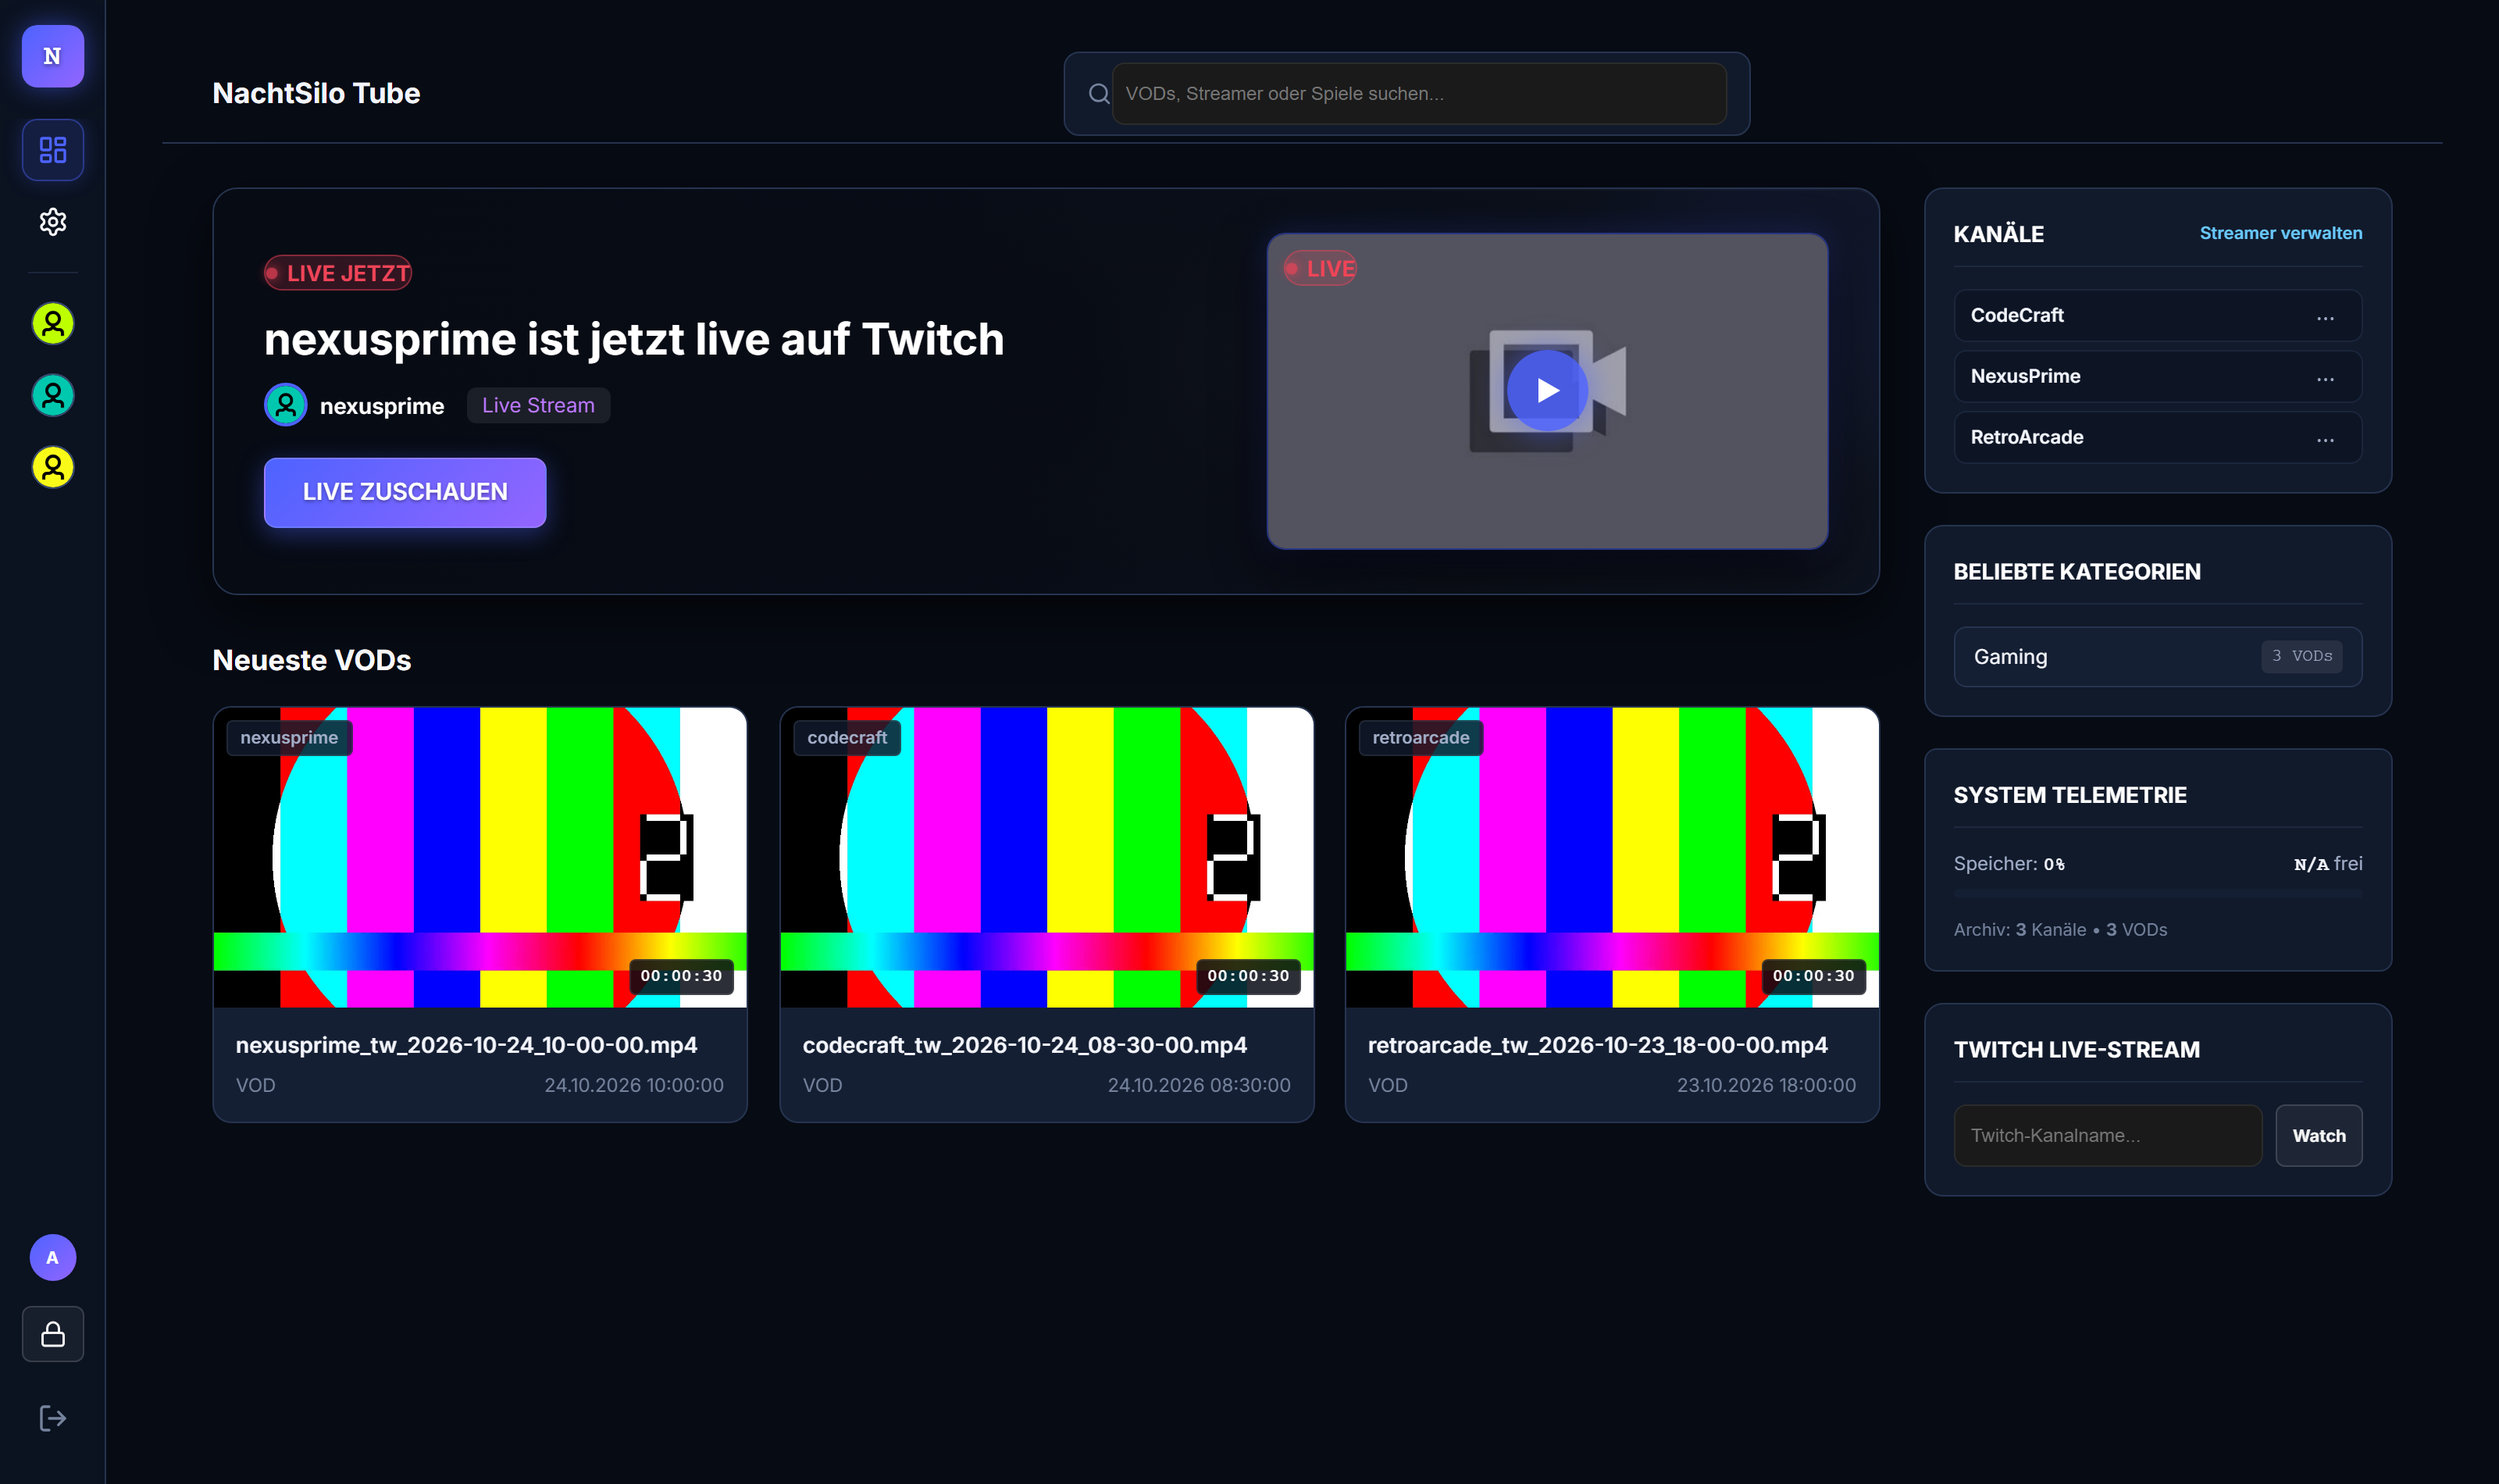
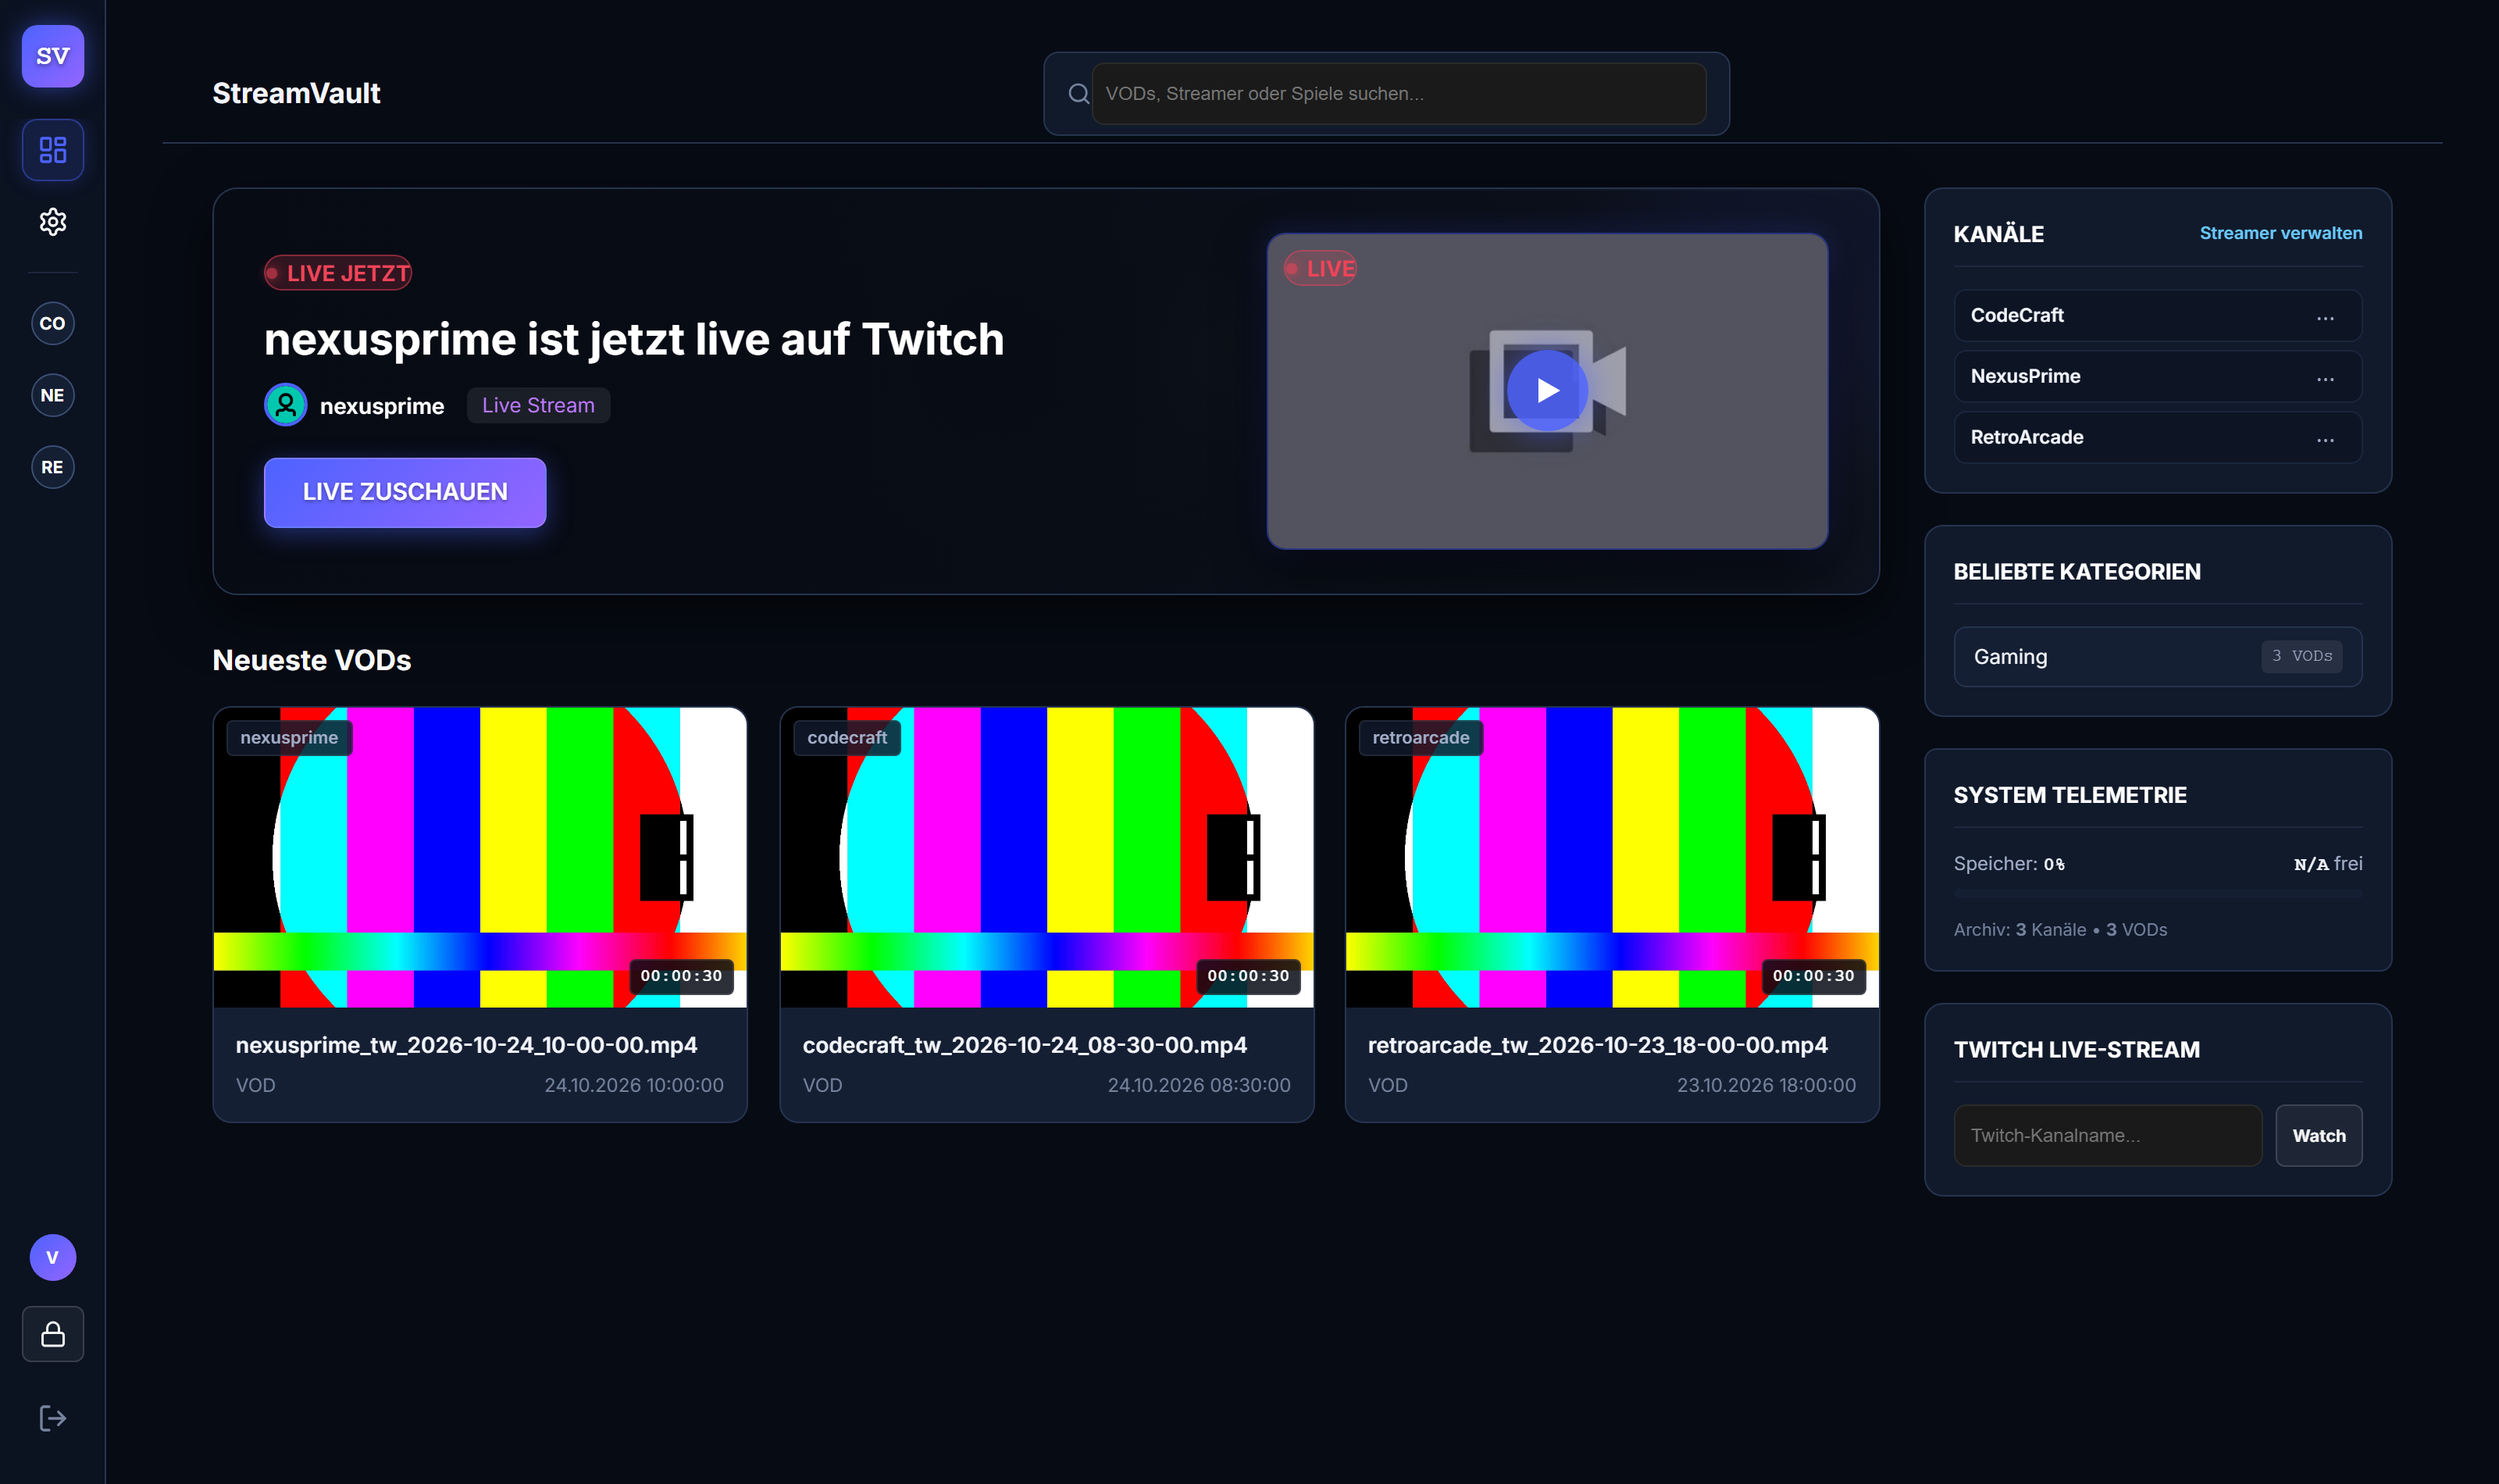
fix(ui): purge all remaining legacy UI branding and regenerate showcase screenshots
- Update sidebar brand glyph from 'N' to 'SV' (StreamVault)
- Replace 'Silo Cache' with 'Vault Cache' in VOD player
- Rename default theme and styles from silo to vault
- Regenerate all 6 high-resolution showcase screenshots in docs/screenshots/ with updated StreamVault UI

diff --git a/WEBUI/templates/vod.html b/WEBUI/templates/vod.html
@@ -107,7 +107,7 @@
               {% if drive_only %}
               <span class="vod-storage-badge badge-drive">Google Drive</span>
               {% else %}
-              <span class="vod-storage-badge badge-cache">Silo Cache</span>
+              <span class="vod-storage-badge badge-cache">Vault Cache</span>
               {% endif %}
               <a class="vod-channel-link" href="{{ url_for('streamer_view', streamer=streamer) }}">{{ streamer }}</a>
               {% if vod_category %}
@@ -139,7 +139,7 @@
           {% endif %}
           {% else %}
           <div class="vod-details-main">
-            <div class="vod-kicker">{% if not is_tv and not is_mobile %}<span class="kicker-type">{{ 'Clip' if route_type == 'clip' else 'Aufnahme' }}</span>{% endif %}{% if vod_platform %} · <span class="platform-badge {% if 'youtube' in (vod_platform|lower) %}platform-youtube{% else %}platform-twitch{% endif %}">{% if 'youtube' in (vod_platform|lower) %}YT{% else %}TW{% endif %}</span>{% endif %} · {% if drive_only %}<span class="vod-storage-badge badge-drive">Google Drive</span>{% else %}<span class="vod-storage-badge badge-cache">Silo Cache</span>{% endif %}</div>
+            <div class="vod-kicker">{% if not is_tv and not is_mobile %}<span class="kicker-type">{{ 'Clip' if route_type == 'clip' else 'Aufnahme' }}</span>{% endif %}{% if vod_platform %} · <span class="platform-badge {% if 'youtube' in (vod_platform|lower) %}platform-youtube{% else %}platform-twitch{% endif %}">{% if 'youtube' in (vod_platform|lower) %}YT{% else %}TW{% endif %}</span>{% endif %} · {% if drive_only %}<span class="vod-storage-badge badge-drive">Google Drive</span>{% else %}<span class="vod-storage-badge badge-cache">Vault Cache</span>{% endif %}</div>
             <h1 id="vod-title" class="vod-display-title">{{ vod_display_title or filename }}</h1>
             <a class="vod-channel-link" href="{{ url_for('streamer_view', streamer=streamer) }}">{{ streamer }}</a>
             {% if vod_display_title and vod_display_title != filename %}<div class="muted vod-filename-meta" title="{{ filename }}">{{ filename }}</div>{% endif %}

diff --git a/WEBUI/static/css/tizen_tv.css b/WEBUI/static/css/tizen_tv.css
@@ -1818,7 +1818,7 @@ html.is-tizen-tv .main {
   min-height: 100vh !important; height: auto !important; overflow: visible !important;
 }
 
-html.is-tizen-tv body.theme-silo, html.is-tizen-tv body.theme-aurora, html.is-tizen-tv body.theme-cyber, html.is-tizen-tv body.theme-ember, html.is-tizen-tv body.theme-ocean {
+html.is-tizen-tv body.theme-silo, html.is-tizen-tv body.theme-vault, html.is-tizen-tv body.theme-aurora, html.is-tizen-tv body.theme-cyber, html.is-tizen-tv body.theme-ember, html.is-tizen-tv body.theme-ocean {
   --tube-bg: var(--bg); --tube-surface: var(--surface); --tube-surface-2: var(--surface-raised); --tube-surface-3: var(--surface-hover); --tube-line: var(--border-strong); --tube-line-soft: var(--border); --tube-text: var(--text-primary); --tube-text-2: var(--text-secondary); --tube-muted: var(--text-muted); --tube-accent: var(--brand); --tube-accent-hover: var(--brand-hover); --tube-live: var(--danger); --tube-success: var(--success); --primary: var(--brand); --primary-hover: var(--brand-hover); --accent: var(--brand); --accent-2: var(--success); --text: var(--text-primary); --text-main: var(--text-primary); --muted: var(--text-muted); --card: var(--surface); --glass: var(--surface); --glass-hover: var(--surface-hover); --ns-bg-0: var(--bg); --ns-bg-1: var(--surface); --ns-panel: var(--surface); --ns-line: var(--border); --ns-line-strong: var(--border-strong); --ns-text: var(--text-primary); --ns-text-2: var(--text-secondary); --ns-muted: var(--text-muted); --ns-accent: var(--brand); --ns-accent-2: var(--success);
 }
 
@@ -4691,7 +4691,7 @@ html.is-tizen-tv #btnInstantClip {
   cursor: pointer !important;
 }
 
-/* 6. VOD Storage Badge (Silo Cache vs Google Drive) */
+/* 6. VOD Storage Badge (Vault Cache vs Google Drive) */
 html.is-tizen-tv .vod-storage-badge {
   font-size: 11px !important;
   font-weight: 800 !important;

diff --git a/WEBUI/static/style.css b/WEBUI/static/style.css
@@ -10588,7 +10588,7 @@ body:is(
   --radius-lg: 14px;
 }
 
-body.theme-silo {
+body.theme-silo, body.theme-vault {
   --bg: #0b0b0b;
   --sidebar: #0f0f0f;
   --surface: #141414;
@@ -10713,7 +10713,7 @@ body.theme-ocean {
   --theme-button-text: #06101b;
 }
 
-body:is(.theme-silo,.theme-aurora,.theme-cyber,.theme-ember,.theme-ocean) {
+body:is(.theme-silo,.theme-vault,.theme-aurora,.theme-cyber,.theme-ember,.theme-ocean) {
   --tube-bg: var(--bg);
   --tube-surface: var(--surface);
   --tube-surface-2: var(--surface-raised);
@@ -11040,7 +11040,7 @@ body.page-index .theme-picker .theme-swatch {
   box-shadow: none !important;
 }
 
-body.page-index .theme-picker .swatch-silo {
+body.page-index .theme-picker .swatch-silo, body.page-index .theme-picker .swatch-vault {
   --swatch-a: #d8eb72;
   --swatch-b: #65d59a;
   --swatch-c: #202329;

diff --git a/WEBUI/templates/components/sidebar.html b/WEBUI/templates/components/sidebar.html
@@ -2,7 +2,7 @@
 <aside class="ns-command-rail">
   <div class="ns-rail-brand" style="margin-bottom: 14px;">
     <a href="{{ url_for('index') }}" class="ns-brand-glyph" title="StreamVault" aria-label="StreamVault" style="{% if is_tv %}width: 68px; height: 68px; border-radius: 50%; font-size: 28px; background: linear-gradient(135deg, #4D63FF, #9365FF); border: none; margin: 0 auto; display: flex; align-items: center; justify-content: center; box-shadow: 0 4px 20px rgba(77, 99, 255, 0.4);{% else %}width: 40px; height: 40px; border-radius: 12px; font-size: 18px; background: linear-gradient(135deg, #4D63FF, #9365FF); border: none; margin: 0 auto; display: flex; align-items: center; justify-content: center; box-shadow: 0 2px 10px rgba(77, 99, 255, 0.3);{% endif %}">
-      <span>N</span>
+      <span>SV</span>
     </a>
   </div>
   

diff --git a/WEBUI/templates/index.html b/WEBUI/templates/index.html
@@ -157,7 +157,7 @@
 
     {% if not is_tv and not is_mobile %}
     <!-- Right Column: Community & Silo Widgets (Desktop only) -->
-    <aside class="nebula-side-rail" aria-label="Community & Silo Insights">
+    <aside class="nebula-side-rail" aria-label="Community & Vault Insights">
       <!-- Widget 1: Kompakte Kanal-Schnellauswahl -->
       {% if streamers %}
       <div class="nebula-side-widget">

diff --git a/WEBUI/templates/mobile_index.html b/WEBUI/templates/mobile_index.html
@@ -26,7 +26,7 @@
     }
   </style>
 </head>
-<body class="theme-silo ns-platform">
+<body class="theme-vault ns-platform">
 
 
 

diff --git a/WEBUI/webui.py b/WEBUI/webui.py
@@ -216,9 +216,9 @@ TWITCH_BADGE_ASSET_DIR = os.path.join(TWITCH_BADGE_CACHE_DIR, "assets")
 TWITCH_BADGE_GLOBAL_KEY = "global"
 _TWITCH_BADGE_SYNC_LOCK = threading.Lock()
 _TWITCH_BADGE_SYNC_STATE = {"running": False, "last": None, "error": ""}
-DEFAULT_THEME = "silo"
+DEFAULT_THEME = "vault"
 THEME_OPTIONS = [
-    {"key": "silo", "name": "Graphit Lime"},
+    {"key": "vault", "name": "Graphit Lime"},
     {"key": "aurora", "name": "Aurora Mint"},
     {"key": "cyber", "name": "Neon Cyberpunk 2.0"},
     {"key": "ember", "name": "Ember Red"},
